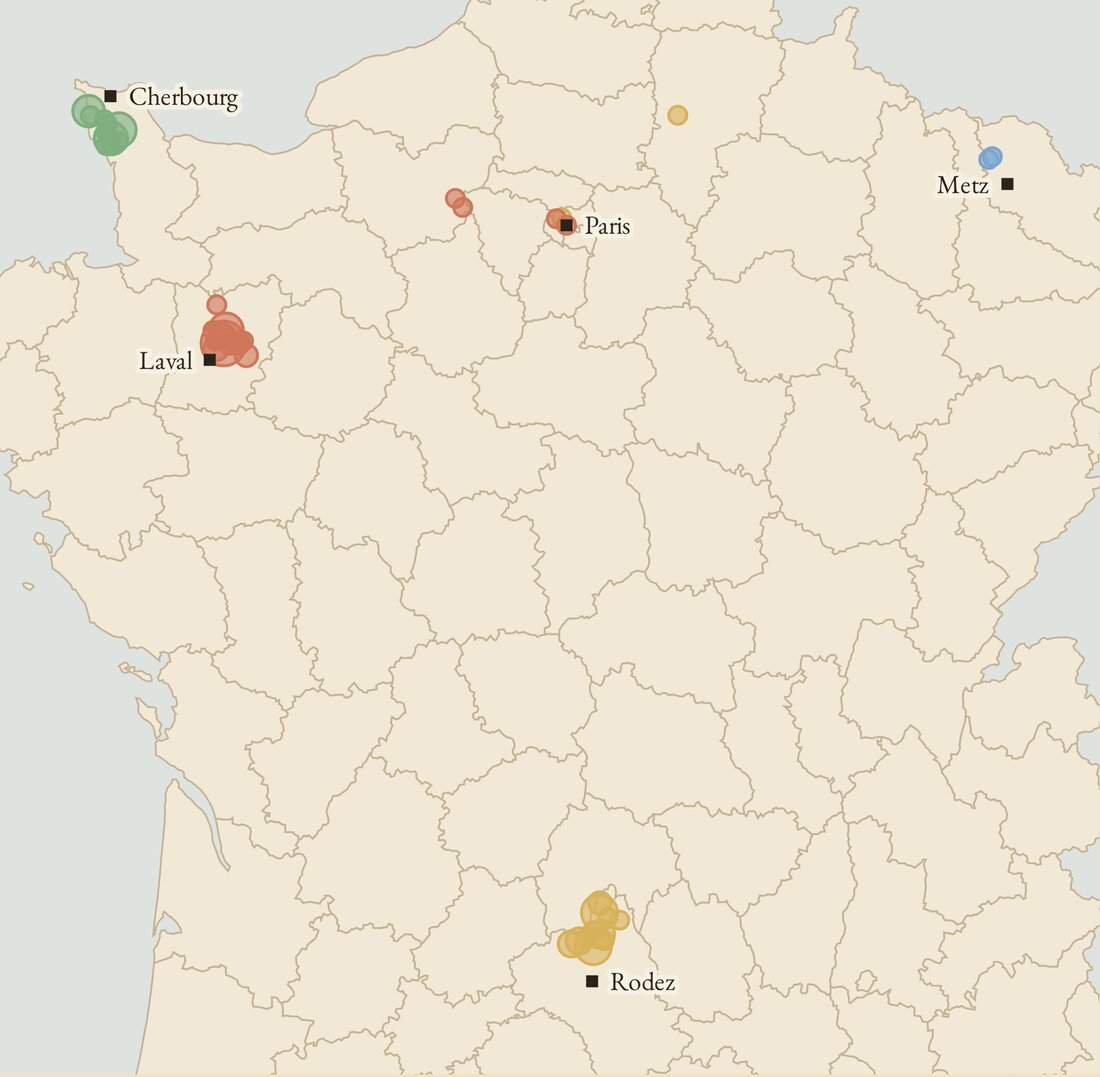
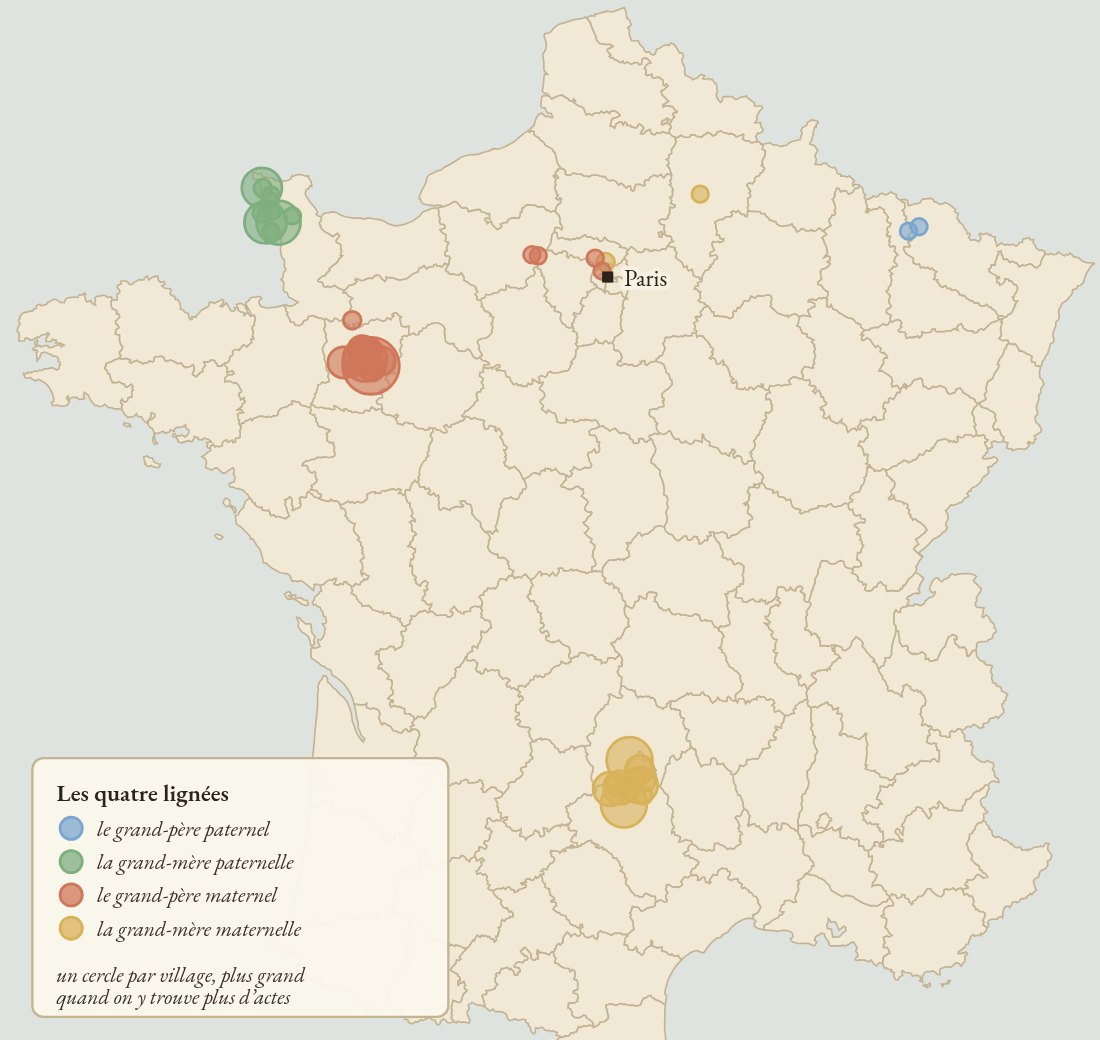
Site : carte des ancêtres dézoomée (France entière), anonymisée (villages déplacés, seul Paris nommé), avec légende des lignées
Claude-Session: https://claude.ai/code/session_01EELwtXeBhs3MM59vNCQP4F

diff --git a/index.html b/index.html
@@ -323,8 +323,8 @@ dialog.loupe button{display:inline-block;margin:0;min-height:48px;padding:0 22px
         <div class="proof"><span>Deux relectures avec vous</span><span>Remboursé si les archives sont trop pauvres</span><span>Rien sur les vivants</span></div>
       </div>
       <figure class="dos">
-        <img src="img/carte-ancetres.jpg" alt="La carte des ancêtres d'un livre réalisé : la France entière, chaque village de la famille marqué d'un cercle" width="1100" height="1077">
-        <figcaption>La carte des ancêtres d'un livre réalisé : chaque cercle grandit avec le nombre d'actes trouvés dans le village.</figcaption>
+        <img src="img/carte-ancetres.jpg?v=2" alt="La carte des ancêtres d'un livre réalisé : la France entière, chaque village de la famille marqué d'un cercle aux couleurs de sa lignée" width="1100" height="1040">
+        <figcaption>La carte des ancêtres d'un livre réalisé, une couleur par lignée. Les villages sont légèrement déplacés, pour que la famille reste anonyme.</figcaption>
       </figure>
     </div>
   </div>
